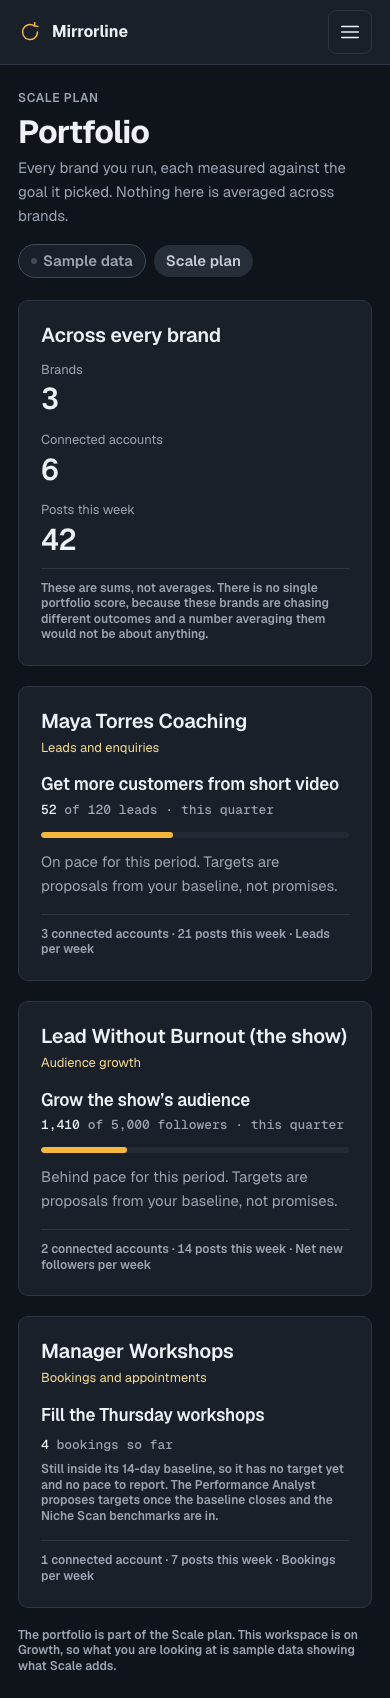
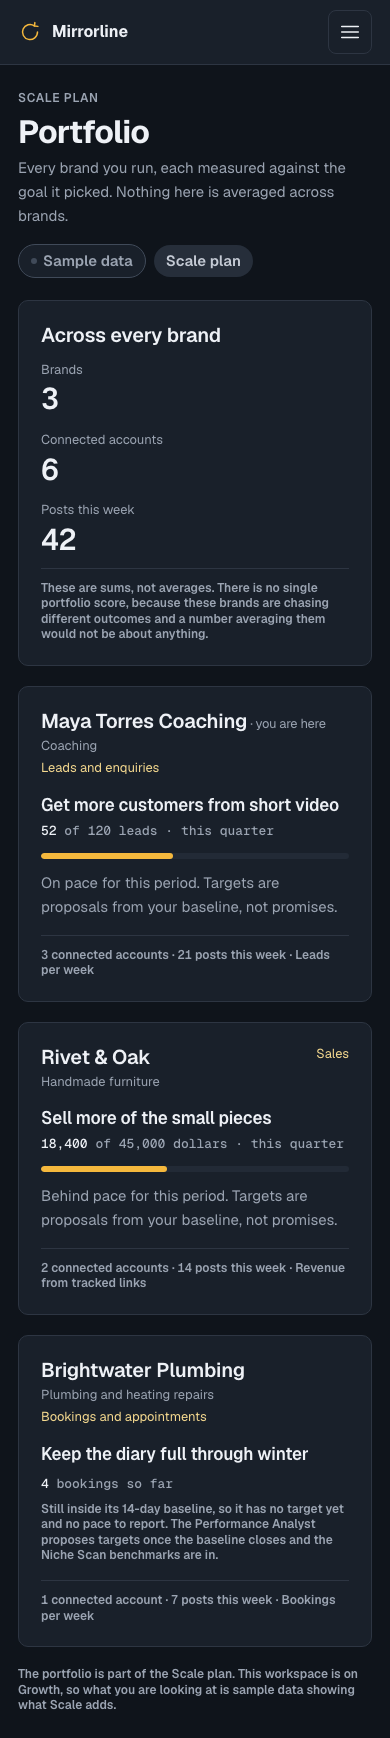
fix(studio): the demo portfolio is three unlike businesses
16 §1, 15 §4. Follow-up 3 of the five in the handoff.

The signed-in workspace is still Maya Torres Coaching, and deliberately so. A
demo client has to have an industry — businesses do, and a fictional one with
no trade would be the fake thing, since workspace.niche exists precisely
because Trend Scout researches a real niche. What was wrong was never that the
demo account is a coaching business; it is that it was the only one, so every
screenshot and every preview read as a coaching tool. The fix is plurality,
not neutrality by erasure.

Portfolio was the screen making the wrong argument. Its three brands were one
coaching business seen three ways — the coach, her podcast, her workshops — on
the one screen in the product that shows more than one business. They are now
a coach chasing leads, a furniture maker chasing sales and a plumber chasing
bookings: three trades, three goals, three KPI sets. Each card carries the
trade, because three unlike names do not show it on their own.

The workspace switcher lists those brands instead of claiming one. Its comment
read "there is one workspace in the demo, so the menu says so plainly rather
than pretending there are more", which stopped being true the moment Portfolio
shipped with three. Both read SAMPLE_PORTFOLIO now so they cannot drift, and
the brands you are not in are disabled with the reason underneath rather than
silently doing nothing when clicked.
[…]

diff --git a/apps/web/lib/studio/portfolio.ts b/apps/web/lib/studio/portfolio.ts
@@ -10,13 +10,45 @@
  * **It rolls up, it does not average.** There is no single "portfolio health"
  * figure here and there will not be one. Averaging a leads goal against an
  * awareness goal produces a number that is not about anything.
+ *
+ * ## Why these three businesses are nothing like each other
+ *
+ * The first version of this list was three brands belonging to one coaching
+ * business — the coach, her podcast and her workshops. Every figure was
+ * correct and the screen still made the wrong argument: 16 §1 says the product
+ * works for any business in any industry, and the one screen that shows more
+ * than one business was showing three views of a single trade.
+ *
+ * **A demo client has to have an industry.** Businesses do, and a fictional
+ * one with no trade would be the fake thing — `workspace.niche` exists because
+ * Trend Scout researches a real niche. What was wrong was never that the demo
+ * account is a coaching business; it is that it was the *only* one, so every
+ * screenshot and every preview read as a coaching tool. The fix is plurality,
+ * not neutrality by erasure.
+ *
+ * So: a coach chasing leads, a furniture maker chasing sales, and a plumber
+ * chasing bookings. Three trades, three goals, three KPI sets. A test holds
+ * the spread, because an edit that quietly made them one industry again would
+ * pass every other check in the repo.
+ *
+ * The coaching brand is the signed-in workspace, named from the
+ * `@mirrorline/mock` fixture rather than retyped, so the portfolio and every
+ * other studio screen cannot disagree about which brand you are in.
  */
+
+import { workspace } from '@mirrorline/mock'
 
 import { type GoalKey } from '@/lib/audience/account-type'
 
 export interface PortfolioBrand {
   readonly id: string
   readonly name: string
+  /**
+   * The brand's own trade, in its own words — the same free text onboarding
+   * asks for (16 §1). On the card, so a reader can see at a glance that these
+   * are unlike businesses and not just unlike names.
+   */
+  readonly niche: string
   readonly goalKey: GoalKey
   /** The goal in the user's own words, as it was typed in onboarding. */
   readonly outcome: string
@@ -37,37 +69,45 @@ export interface PortfolioBrand {
 
 export const SAMPLE_PORTFOLIO: readonly PortfolioBrand[] = [
   {
+    // The signed-in workspace. Named from the fixture, not retyped.
     id: 'brand-coaching',
-    name: 'Maya Torres Coaching',
+    name: workspace.name,
+    niche: workspace.niche,
     goalKey: 'leads',
     outcome: 'Get more customers from short video',
     headlineKpiName: 'Leads per week',
     current: 52,
     target: 120,
     unitLabel: 'leads',
+    // The three the mock has connected. LinkedIn is not one of them.
     accountCount: 3,
     postsThisWeek: 21,
     periodElapsed: 6 / 13,
   },
   {
-    id: 'brand-show',
-    name: 'Lead Without Burnout (the show)',
-    goalKey: 'audience',
-    outcome: 'Grow the show’s audience',
-    headlineKpiName: 'Net new followers per week',
-    current: 1_410,
-    target: 5_000,
-    unitLabel: 'followers',
+    // A product brand selling through a tracked link: the one goal the
+    // coaching account cannot demonstrate, because it sells nothing online.
+    id: 'brand-furniture',
+    name: 'Rivet & Oak',
+    niche: 'Handmade furniture',
+    goalKey: 'sales',
+    outcome: 'Sell more of the small pieces',
+    headlineKpiName: 'Revenue from tracked links',
+    current: 18_400,
+    target: 45_000,
+    unitLabel: 'dollars',
     accountCount: 2,
     postsThisWeek: 14,
     periodElapsed: 6 / 13,
   },
   {
-    // Inside its baseline: no target, so no progress bar and no pace note.
-    id: 'brand-workshops',
-    name: 'Manager Workshops',
+    // A local service, and still inside its baseline: no target, so no
+    // progress bar and no pace note.
+    id: 'brand-plumbing',
+    name: 'Brightwater Plumbing',
+    niche: 'Plumbing and heating repairs',
     goalKey: 'bookings',
-    outcome: 'Fill the Thursday workshops',
+    outcome: 'Keep the diary full through winter',
     headlineKpiName: 'Bookings per week',
     current: 4,
     target: 0,
@@ -77,6 +117,17 @@ export const SAMPLE_PORTFOLIO: readonly PortfolioBrand[] = [
     periodElapsed: null,
   },
 ]
+
+/**
+ * The brand the rest of the studio is showing.
+ *
+ * Matched on the fixture's own name rather than carried as a flag on the row:
+ * a flag can be set on two rows, and then two screens disagree about where
+ * you are. A test asserts the portfolio contains it.
+ */
+export function isCurrentBrand(brand: PortfolioBrand): boolean {
+  return brand.name === workspace.name
+}
 
 /** 09 §Plans: the portfolio belongs to the Scale plan. */
 export const PORTFOLIO_PLAN_NAME = 'Scale'

diff --git a/apps/web/components/shell/workspace-switcher.tsx b/apps/web/components/shell/workspace-switcher.tsx
@@ -5,13 +5,23 @@ import { workspace } from '@mirrorline/mock'
 import Link from 'next/link'
 
 import { ChevronDownIcon } from '@/components/icons'
+import { SAMPLE_PORTFOLIO, isCurrentBrand } from '@/lib/studio/portfolio'
 
 /**
  * The workspace switcher at the top of the sidebar.
  *
  * DESIGN.md "Layout": "workspace switcher ("Maya Torres Coaching · Growth
- * plan")". There is one workspace in the demo, so the menu says so plainly
- * rather than pretending there are more.
+ * plan")".
+ *
+ * **It lists the brands the portfolio lists.** This used to say "there is one
+ * workspace in the demo, so the menu says so plainly rather than pretending
+ * there are more" — which stopped being true the moment Portfolio shipped with
+ * three. One screen claiming one workspace while another shows three is the
+ * kind of disagreement nobody notices until a client does.
+ *
+ * Both now read `SAMPLE_PORTFOLIO`, so they cannot drift. Switching is not
+ * wired, so the brands you are not in are disabled with the reason written
+ * underneath, rather than quietly doing nothing when clicked.
  */
 
 const INITIALS_COUNT = 2
@@ -103,15 +113,34 @@ export function WorkspaceSwitcher() {
           aria-label="Switch workspace"
           className="absolute top-full right-0 left-0 z-20 mt-1.5 rounded-lg border border-border bg-surface p-1"
         >
-          <button
-            type="button"
-            aria-current="true"
-            onClick={() => setIsOpen(false)}
-            className="flex min-h-touch w-full items-center rounded-md bg-accent-soft px-3 text-left text-label text-on-accent-soft"
-          >
-            {workspace.name}
-            <span className="sr-only"> (current workspace)</span>
-          </button>
+          {SAMPLE_PORTFOLIO.map((brand) =>
+            isCurrentBrand(brand) ? (
+              <button
+                key={brand.id}
+                type="button"
+                aria-current="true"
+                onClick={() => setIsOpen(false)}
+                className="flex min-h-touch w-full items-center rounded-md bg-accent-soft px-3 text-left text-label text-on-accent-soft"
+              >
+                {brand.name}
+                <span className="sr-only"> (current workspace)</span>
+              </button>
+            ) : (
+              <button
+                key={brand.id}
+                type="button"
+                disabled
+                className="flex min-h-touch w-full items-center px-3 text-left text-label text-text-muted"
+              >
+                {brand.name}
+              </button>
+            ),
+          )}
+
+          <p className="m-0 px-3 py-1.5 text-caption text-text-muted">
+            Switching brands is not wired in this preview. Their numbers are on{' '}
+            <span className="text-text">All brands</span>.
+          </p>
           {/* Where Portfolio is reached from, now the sidebar is back to the
               eight items DESIGN.md fixes. It belongs here rather than in the
               nav: it is the only screen that spans workspaces, and this is

diff --git a/apps/web/lib/studio/studio-data.test.ts b/apps/web/lib/studio/studio-data.test.ts
@@ -11,6 +11,7 @@ import { readFileSync } from 'node:fs'
 import path from 'node:path'
 import { fileURLToPath } from 'node:url'
 
+import { workspace } from '@mirrorline/mock'
 import { describe, expect, test } from 'vitest'
 
 import { KPI_DEFINITIONS } from '@/components/kpi/sample-dashboard'
@@ -25,7 +26,7 @@ import {
   type TrendAlert,
   isAlertWorthRaising,
 } from './insights'
-import { PORTFOLIO_TOTALS, SAMPLE_PORTFOLIO, hasAgreedTarget } from './portfolio'
+import { PORTFOLIO_TOTALS, SAMPLE_PORTFOLIO, hasAgreedTarget, isCurrentBrand } from './portfolio'
 import {
   DEFAULT_RESULTS_TAB,
   RESULTS_TABS,
@@ -256,8 +257,60 @@ describe('the portfolio', () => {
   })
 
   test('every brand keeps its own goal rather than sharing one', () => {
-    const goals = new Set(SAMPLE_PORTFOLIO.map((brand) => brand.goalKey))
+    const goals = SAMPLE_PORTFOLIO.map((brand) => brand.goalKey)
 
-    expect(goals.size).toBeGreaterThan(1)
+    // Not "more than one" — every brand. Two of three sharing a goal would
+    // still pass a size check and would still be the wrong screen.
+    expect(new Set(goals).size).toBe(SAMPLE_PORTFOLIO.length)
+  })
+
+  test('every brand is a different trade', () => {
+    // 16 §1: the product works for any business in any industry, and this is
+    // the only screen that shows more than one business. It was three views
+    // of one coaching business once; an edit that made them one trade again
+    // would pass every other check in the repo, so it fails here.
+    const niches = SAMPLE_PORTFOLIO.map((brand) => brand.niche.toLowerCase())
+
+    expect(new Set(niches).size).toBe(SAMPLE_PORTFOLIO.length)
+    for (const niche of niches) {
+      expect(niche.length).toBeGreaterThan(0)
+    }
+  })
+
+  test('no two brands share a word in their trade', () => {
+    // "Coaching" and "Business coaching" are different strings and the same
+    // industry. Comparing the words catches that; comparing the strings does
+    // not.
+    const wordsPerBrand = SAMPLE_PORTFOLIO.map(
+      (brand) =>
+        new Set(
+          brand.niche
+            .toLowerCase()
+            .split(/[^a-z]+/)
+            .filter(Boolean),
+        ),
+    )
+
+    for (const [index, words] of wordsPerBrand.entries()) {
+      for (const [otherIndex, otherWords] of wordsPerBrand.entries()) {
+        if (index >= otherIndex) continue
+        const shared = [...words].filter((word) => otherWords.has(word))
+
+        expect(
+          shared,
+          `${SAMPLE_PORTFOLIO[index]?.name} and ${SAMPLE_PORTFOLIO[otherIndex]?.name} share "${shared.join(', ')}"`,
+        ).toEqual([])
+      }
+    }
+  })
+
+  test('includes the signed-in workspace, and only once', () => {
+    // The switcher and the portfolio both decide "you are here" from this, so
+    // zero matches would leave neither highlighting anything, and two would
+    // have them highlighting different brands.
+    const current = SAMPLE_PORTFOLIO.filter(isCurrentBrand)
+
+    expect(current).toHaveLength(1)
+    expect(current[0]?.name).toBe(workspace.name)
   })
 })

diff --git a/apps/web/components/studio/portfolio-board.tsx b/apps/web/components/studio/portfolio-board.tsx
@@ -22,6 +22,7 @@ import {
   type PortfolioBrand,
   SAMPLE_PORTFOLIO,
   hasAgreedTarget,
+  isCurrentBrand,
 } from '@/lib/studio/portfolio'
 
 import { GoalProgress } from '../kpi/goal-progress'
@@ -83,9 +84,18 @@ function BrandCard({ brand }: { brand: PortfolioBrand }) {
   return (
     <Card as="section" aria-labelledby={headingId} className="flex min-w-0 flex-col gap-4">
       <div className="flex flex-wrap items-start justify-between gap-x-4 gap-y-1">
-        <h3 id={headingId} className="m-0 font-heading text-title text-text">
-          {brand.name}
-        </h3>
+        <span className="flex min-w-0 flex-col gap-0.5">
+          <h3 id={headingId} className="m-0 font-heading text-title text-text">
+            {brand.name}
+            {isCurrentBrand(brand) ? (
+              <span className="text-meta font-normal text-text-muted"> · you are here</span>
+            ) : null}
+          </h3>
+          {/* The trade, in the brand's own words. On the card because the
+              argument this screen makes is that these are unlike businesses,
+              and three unlike names do not show that on their own. */}
+          <span className="text-meta text-text-muted">{brand.niche}</span>
+        </span>
         {/* Not gold. `--color-gold-text` is a public-site token fixed for a
             light band, and the studio has a dark theme — axe caught it here
             first. The studio's own accent pair is theme-aware. */}

diff --git a/docs/PROGRESS.md b/docs/PROGRESS.md
@@ -36,14 +36,14 @@ pushed. The `Branch: main` line above is stale; this is where the work is.
 
 ### Open — the five follow-ups
 
-**Two of the five are done.** The rest were raised as findings and open
-questions at the end of the PR9 report.
+**Three of the five are done.** The two that remain were deferred on purpose,
+and both are one-line changes waiting on a word from Vlad.
 
 | # | Follow-up | State | Where it lives |
 |---|---|---|---|
 | 1 | Studio nav back to 8 items | **Done** — `nav-items.ts`, plus three replacement entry points | see below |
 | 2 | Immediate connection alerts | **Done** — `insights.ts`, `alerts-board.tsx`, the `alerts` CHECK | see below |
-| 3 | Industry-neutral demo workspaces | **Not started** | `packages/mock/src/data.ts` |
+| 3 | Industry-neutral demo workspaces | **Done** — `portfolio.ts`, `workspace-switcher.tsx` | see below |
 | 4 | `.env.example` fix | **Not started**, deliberately — Needs Vlad C | `.env.example` |
 | 5 | Remove `report-button.tsx` | **Not started**, deliberately — Needs Vlad D | `apps/web/components/results/report-button.tsx` |
 
@@ -101,12 +101,40 @@ Detail where it is not obvious from the table:
    Covered three ways: two unit tests on the rule (verified to fail when the
    fix is reverted), one asserting the SQL matches the app, and an end-to-end
    assertion that both sentences appear on `/app/home`.
-3. **Demo workspace.** Still "Maya Torres Coaching", `niche: 'Coaching'`,
-   `ownerRole: 'Leadership coach for first-time managers'`. Legitimate as one
-   fictional client's own niche, but it is the only demo account in the repo,
-   so every screenshot and every public preview reads as a coaching product.
-   Two or three workspaces in unlike niches would carry the agnostic claim
-   16 §1 makes.
+3. **Demo workspaces — done.** The signed-in workspace is still Maya Torres
+   Coaching, and deliberately so: **a demo client has to have an industry**,
+   businesses do, and a fictional one with no trade would be the fake thing —
+   `workspace.niche` exists precisely because Trend Scout researches a real
+   niche. What was wrong was never that the demo account is a coaching
+   business; it is that it was the *only* one, so every screenshot read as a
+   coaching tool. The fix is plurality, not neutrality by erasure.
+
+   Portfolio was the screen making the wrong argument. Its three brands were
+   one coaching business seen three ways — the coach, her podcast, her
+   workshops — on the one screen in the product that shows more than one
+   business. They are now a coach chasing leads, a furniture maker chasing
+   sales and a plumber chasing bookings: three trades, three goals, three KPI
+   sets. Each card shows the trade, because three unlike names do not show it
+   on their own.
+
+   The workspace switcher now lists those brands instead of claiming one. Its
+   comment used to read "there is one workspace in the demo, so the menu says
+   so plainly rather than pretending there are more", which stopped being true
+   the moment Portfolio shipped with three — one screen claiming one workspace
+   while another showed three. Both read `SAMPLE_PORTFOLIO` now, so they
+   cannot drift, and the brands you are not in are disabled with the reason
+   written underneath rather than silently doing nothing.
+
+   Four tests hold it: every brand a different goal (every brand, not "more
+   than one" — two of three sharing would pass a size check and still be the
+   wrong screen), every brand a different trade, **no two trades sharing a
+   word** — "Coaching" and "Business coaching" are different strings and the
+   same industry — and the signed-in workspace present exactly once, since
+   both screens read "you are here" from that. Verified by renaming one brand's
+   trade to "Business coaching" and watching the word-level test name the pair.
+
+   `packages/mock` is untouched, so the fixture's parity with
+   `08_MOCK_DATA.md` and every existing e2e assertion still hold.
 
 Also open, from the PR9 report: Portfolio appears in the nav for a Growth-plan
 workspace (double-labelled, but arguable), and editable targets do not persist,
